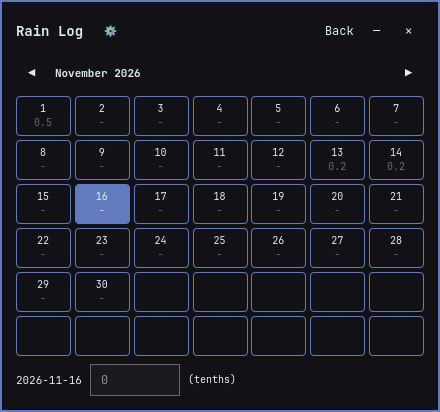
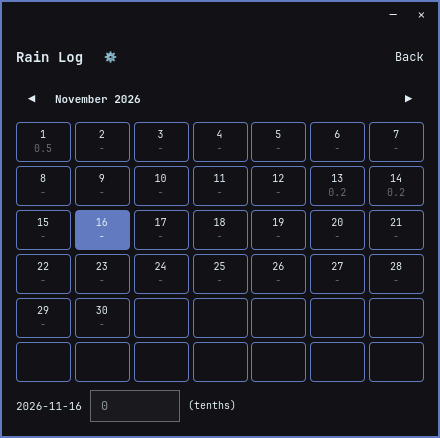
Put window controls in a title strip above the card header
Minimize and close now sit at the top right on their own row, the way a
standard title bar places them, instead of sharing the Edit History row.
The strip is draggable and the shared card no longer carries host chrome.

diff --git a/qml/Main.qml b/qml/Main.qml
@@ -2,9 +2,9 @@ import QtQuick
 import RainLog
 
 // Desktop host: a small frameless window whose body is the same card the
-// Omarchy plugin shows. The only host-specific chrome is the minimize/close
-// pair in the header, so the app keeps working on GNOME, KDE, Cinnamon, and
-// Windows, where a plugin cannot.
+// Omarchy plugin shows. The only host-specific chrome is a slim title strip
+// with the minimize/close pair above the card header, so the app keeps working
+// on GNOME, KDE, Cinnamon, and Windows, where a plugin cannot.
 Window {
   id: window
 
@@ -21,10 +21,10 @@ Window {
   // size worth remembering; otherwise the card keeps fitting its content.
   // A saved height means the size already came from a resize.
   property bool userSized: Config.windowHeight > 0
-  readonly property int fittedHeight: Math.max(120, content.naturalHeight)
+  readonly property int fittedHeight: Math.max(120, titleBar.height + content.naturalHeight)
   height: !Host.screenshotMode && Config.windowHeight > 0
     ? Config.windowHeight
-    : (measured ? fittedHeight : 464)
+    : (measured ? fittedHeight : 490)
   minimumWidth: 400
   minimumHeight: 180
 
@@ -107,36 +107,57 @@ Window {
     border.width: 2
     border.color: Theme.popupsBorder
 
+    // Window controls sit above the card header, the way a regular title bar
+    // does. The empty part of the strip drags the window.
+    Item {
+      id: titleBar
+      anchors.top: parent.top
+      anchors.left: parent.left
+      anchors.right: parent.right
+      anchors.topMargin: 2
+      anchors.leftMargin: 2
+      anchors.rightMargin: 2
+      height: Math.max(26, windowControls.implicitHeight + Theme.space(4))
+
+      MouseArea {
+        anchors.fill: parent
+        onPressed: window.startSystemMove()
+      }
+
+      Row {
+        id: windowControls
+        anchors.right: parent.right
+        anchors.rightMargin: Theme.space(4)
+        anchors.verticalCenter: parent.verticalCenter
+        spacing: Theme.space(2)
+
+        Button {
+          text: "—"
+          tooltipText: "Minimize"
+          verticalPadding: Theme.space(2)
+          horizontalPadding: Theme.space(8)
+          onClicked: window.showMinimized()
+        }
+
+        Button {
+          text: "✕"
+          tooltipText: "Close"
+          verticalPadding: Theme.space(2)
+          horizontalPadding: Theme.space(8)
+          onClicked: window.close()
+        }
+      }
+    }
+
     RainLogContent {
       id: content
       anchors.fill: parent
-      anchors.margins: 2
+      anchors.topMargin: 2 + titleBar.height
+      anchors.leftMargin: 2
+      anchors.rightMargin: 2
+      anchors.bottomMargin: 2
       contentPadding: Theme.spacing.popupPadding
-      headerTrailing: trailingComponent
       onMoveRequested: window.startSystemMove()
-    }
-  }
-
-  // In-app window controls. Keeping them in the header (rather than a native
-  // titlebar) guarantees a minimize button on desktops whose decoration does
-  // not show one, and keeps the card's look intact.
-  Component {
-    id: trailingComponent
-
-    Row {
-      spacing: Theme.space(2)
-
-      Button {
-        text: "—"
-        tooltipText: "Minimize"
-        onClicked: window.showMinimized()
-      }
-
-      Button {
-        text: "✕"
-        tooltipText: "Close"
-        onClicked: window.close()
-      }
     }
   }
 

diff --git a/shared/ui/RainLogContent.qml b/shared/ui/RainLogContent.qml
@@ -5,11 +5,10 @@ import "../model/Model.js" as Model
 
 // The shared Rain Log card. Hosts supply:
 //   * Theme, Store and Config through the module's singletons,
-//   * optional `settingsExtra` content (the plugin injects its Bar section),
-//   * optional `headerTrailing` content (the desktop client injects its
-//     minimize/close buttons).
+//   * optional `settingsExtra` content (the plugin injects its Bar section).
 // Everything else — main page, rolling totals, calendar, history entry, data
-// path setting — is identical in every host.
+// path setting — is identical in every host. Desktop window chrome belongs to
+// the host, above this card.
 Item {
   id: root
 
@@ -18,7 +17,6 @@ Item {
   property bool editingCustom: false
   property int contentPadding: Theme.spacing.popupPadding
   property Component settingsExtra: null
-  property Component headerTrailing: null
 
   // Escape returns to the main page, then asks the host to dismiss itself.
   signal closeRequested()
@@ -219,13 +217,6 @@ Item {
         horizontalPadding: 0
         Layout.alignment: Qt.AlignVCenter
         onClicked: root.historyMode = false
-      }
-
-      Loader {
-        id: trailingLoader
-        visible: root.headerTrailing !== null
-        sourceComponent: root.headerTrailing
-        Layout.alignment: Qt.AlignVCenter
       }
     }
 
